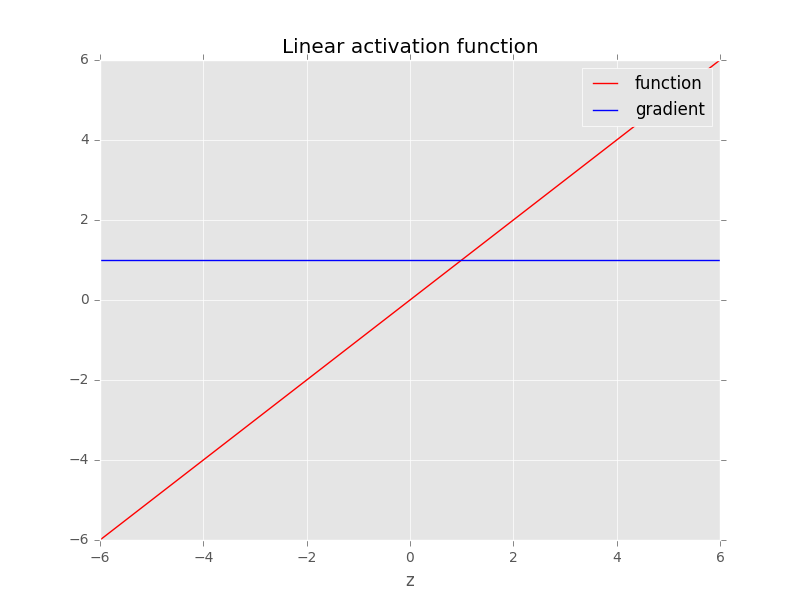
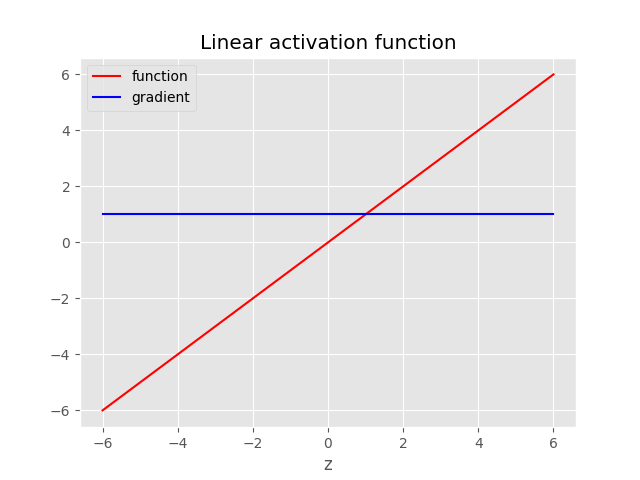
modular structure

diff --git a/nn_new.py b/nn_new.py
@@ -1,0 +1,136 @@
+#!/usr/bin/env python
+
+import numpy as np
+from activation import *
+from forward import *
+
+np.random.seed(42)
+
+hidden_layer_size = 50
+num_labels = 10
+
+X_train = np.load('input/X_train.npy')
+X_test = np.load('input/X_test.npy')
+y_train = np.load('input/y_train.npy')
+y_test = np.load('input/y_test.npy')
+
+input_layer_size = X_train.shape[1]
+
+X_train /= 255.
+X_test /= 255.
+
+
+def init_weights(L_in, L_out):
+    epsilon = 0.12
+
+    return 2*np.random.rand(L_out, L_in+1)*epsilon - epsilon
+
+
+def one_hot(K, pos):
+    y0 = np.zeros(K)
+    y0[pos] = 1
+
+    return y0
+
+
+def backprop(model, X, y):
+    M = X.shape[0]
+
+    Thetas = model[0::2]
+    activations = model[1::2]
+
+    layers = len(Thetas)
+
+    K = Thetas[-1].shape[0]
+    J = 0
+
+    Deltas = []
+
+    for i in range(layers):
+        Deltas.append(np.zeros(Thetas[i].shape))
+
+    deltas = [0, 0, 0, 0]
+
+    for i in range(M):
+        As = []
+        Zs = [0]
+        Hs = [X[i]]
+
+        # Forward propagation, saving intermediate results
+        As.append(np.concatenate(([1], Hs[0])))  # Input layer
+
+        for l in range(1, layers+1):
+            Zs.append(np.dot(Thetas[l-1], As[l-1]))
+            Hs.append(activations[l-1].f(Zs[l]))
+            As.append(np.concatenate(([1], Hs[l])))
+
+        y0 = one_hot(K, y[i])
+
+        # Cross entropy
+        J -= np.dot(y0.T, np.log(Hs[2]))+np.dot((1-y0).T, np.log(1-Hs[2]))
+
+        # Calculate the weight deltas
+        deltas[3] = Hs[layers]-y0
+        deltas[2] = np.dot(Thetas[1].T, deltas[3])[1:]*activations[1].df(Zs[1])
+
+        Deltas[1] += np.outer(deltas[3], As[1])
+        Deltas[0] += np.outer(deltas[2], As[0])
+
+    J /= M
+
+    Thetas[0][:, 0] = np.zeros(Thetas[0].shape[0])
+    Thetas[1][:, 0] = np.zeros(Thetas[1].shape[0])
+
+    grads = []
+
+    grads.append(Deltas[0]/M)
+    grads.append(Deltas[1]/M)
+
+    return [J, grads]
+
+
+if __name__ == "__main__":
+    step = 0
+    tol = 1e-3
+    J_old = 1/tol
+    diff = 1
+
+    Thetas = []
+    Thetas.append(init_weights(input_layer_size, hidden_layer_size))
+    Thetas.append(init_weights(hidden_layer_size, num_labels))
+
+    model = []
+
+    model.append(Thetas[0])
+    model.append(Sigmoid)
+    model.append(Thetas[1])
+    model.append(Sigmoid)
+
+    while diff > tol:
+        J_train, Theta1_grad, Theta2_grad = backprop(model, X_train, y_train)
+
+        diff = abs(J_old-J_train)
+        J_old = J_train
+
+        step += 1
+
+        if step % 10 == 0:
+            pred_train = predict(model, X_train)
+            pred_test = predict(model, X_test)
+
+            J_test, grads = backprop(model, X_test, y_test)
+
+            print(step, J_train, J_test, accuracy(pred_train, y_train), accuracy(pred_test, y_test))
+
+        Thetas[0] -= .5*grads[0]
+        Thetas[1] -= .5*grads[1]
+
+        if step == 30:
+            break
+
+    pred = predict(model, X_test)
+
+    #np.save('Theta1.npy', Theta1)
+    #np.save('Theta2.npy', Theta2)
+
+    print(accuracy(pred, y_test))

diff --git a/activation.py b/activation.py
@@ -4,69 +4,72 @@ import matplotlib.pyplot as plt
 import numpy as np
 
 
-def linear(z):
-    return z
+class Activation(object):
+    def f(z):
+        pass
 
+    def df(z):
+        pass
 
-def linearGradient(z):
-    return np.ones(z.shape)
+class Linear(Activation):
+    def f(z):
+        return z
 
+    def df(z):
+        return np.ones(z.shape)
 
-def relu(z):
-    return np.where(z > 0, z, 0)
+class ReLu(Activation):
+    def f(z):
+        return np.where(z > 0, z, 0)
 
+    def df(z):
+        return np.where(z > 0, 1, 0)
 
-def reluGradient(z):
-    return np.where(z > 0, 1, 0)
+class Sigmoid(Activation):
+    def f(z):
+        return 1./(1+np.exp(-z))
+    
+    def df(z):
+        h = Sigmoid.f(z)
+        return h*(1-h)
 
+class TanH(Activation):
+    def f(z):
+        return np.tanh(z)
 
-def sigmoid(z):
-    return 1./(1+np.exp(-z))
-
-
-def sigmoidGradient(z):
-    h = sigmoid(z)
-    return h*(1-h)
-
-
-def tanh(z):
-    return np.tanh(z)
-
-
-def tanhGradient(z):
-    return 1-np.power(tanh(z), 2.0)
-
+    def df(z):
+        return 1-np.power(np.tanh(z), 2.0)
 
 z = np.linspace(-6, 6, 100)
 
 plt.style.use('ggplot')
 
-plt.plot(z, linear(z), 'r-')
-plt.plot(z, linearGradient(z), 'b-')
+plt.plot(z, Linear.f(z), 'r-')
+plt.plot(z, Linear.df(z), 'b-')
 plt.xlabel('z')
 plt.title('Linear activation function')
 plt.legend(['function', 'gradient'])
 plt.savefig('figs/linear.png')
 plt.close()
 
-plt.plot(z, relu(z), 'r-')
-plt.plot(z, reluGradient(z), 'b-')
+plt.plot(z, ReLu.f(z), 'r-')
+plt.plot(z, ReLu.df(z), 'b-')
 plt.legend(['function', 'gradient'])
 plt.xlabel('z')
 plt.title('Rectified Linear activation function')
 plt.savefig('figs/relu.png')
 plt.close()
 
-plt.plot(z, sigmoid(z), 'r-')
-plt.plot(z, sigmoidGradient(z), 'b-')
+plt.plot(z, Sigmoid.f(z), 'r-')
+plt.plot(z, Sigmoid.df(z), 'b-')
 plt.legend(['function', 'gradient'])
 plt.xlabel('z')
 plt.title('Sigmoid activation function')
 plt.savefig('figs/sigmoid.png')
 plt.close()
 
-plt.plot(z, tanh(z), 'r-')
-plt.plot(z, tanhGradient(z), 'b-')
+plt.plot(z, TanH.f(z), 'r-')
+plt.plot(z, TanH.df(z), 'b-')
 plt.legend(['function', 'gradient'])
 plt.xlabel('z')
 plt.title('Hyperbolic Tangent activation function')

diff --git a/activation_simple.py b/activation_simple.py
@@ -1,0 +1,74 @@
+#!/usr/bin/env python
+
+import matplotlib.pyplot as plt
+import numpy as np
+
+
+def linear(z):
+    return z
+
+
+def linearGradient(z):
+    return np.ones(z.shape)
+
+
+def relu(z):
+    return np.where(z > 0, z, 0)
+
+
+def reluGradient(z):
+    return np.where(z > 0, 1, 0)
+
+
+def sigmoid(z):
+    return 1./(1+np.exp(-z))
+
+
+def sigmoidGradient(z):
+    h = sigmoid(z)
+    return h*(1-h)
+
+
+def tanh(z):
+    return np.tanh(z)
+
+
+def tanhGradient(z):
+    return 1-np.power(tanh(z), 2.0)
+
+
+z = np.linspace(-6, 6, 100)
+
+plt.style.use('ggplot')
+
+plt.plot(z, linear(z), 'r-')
+plt.plot(z, linearGradient(z), 'b-')
+plt.xlabel('z')
+plt.title('Linear activation function')
+plt.legend(['function', 'gradient'])
+plt.savefig('figs/linear.png')
+plt.close()
+
+plt.plot(z, relu(z), 'r-')
+plt.plot(z, reluGradient(z), 'b-')
+plt.legend(['function', 'gradient'])
+plt.xlabel('z')
+plt.title('Rectified Linear activation function')
+plt.savefig('figs/relu.png')
+plt.close()
+
+plt.plot(z, sigmoid(z), 'r-')
+plt.plot(z, sigmoidGradient(z), 'b-')
+plt.legend(['function', 'gradient'])
+plt.xlabel('z')
+plt.title('Sigmoid activation function')
+plt.savefig('figs/sigmoid.png')
+plt.close()
+
+plt.plot(z, tanh(z), 'r-')
+plt.plot(z, tanhGradient(z), 'b-')
+plt.legend(['function', 'gradient'])
+plt.xlabel('z')
+plt.title('Hyperbolic Tangent activation function')
+plt.savefig('figs/tanh.png')
+plt.close()

diff --git a/forward_simple.py b/forward_simple.py
@@ -1,7 +1,7 @@
 #!/usr/bin/env python
 
 import numpy as np
-from activation import *
+from activation_simple import sigmoid
 
 
 def forward(Theta, X, active):
@@ -14,21 +14,16 @@ def forward(Theta, X, active):
     z = np.dot(X_, Theta.T)
 
     # Apply the activation function
-    a = active.f(z)
+    a = active(z)
 
     return a
 
 
-def predict(model, X):
-    h = X.copy()
+def predict(Theta1, Theta2, X):
+    h1 = forward(Theta1, X, sigmoid)
+    h2 = forward(Theta2, h1, sigmoid)
 
-    for i in range(0, len(model), 2):
-        theta = model[i]
-        activation = model[i+1]
-
-        h = forward(theta, h, activation)
-
-    return np.argmax(h, 1)
+    return np.argmax(h2, 1)
 
 
 def accuracy(y_, y):
@@ -42,13 +37,6 @@ if __name__ == "__main__":
     X = np.load('input/X_train.npy')
     y = np.load('input/y_train.npy')
 
-    model = []
-
-    model.append(Theta1)
-    model.append(Sigmoid)
-    model.append(Theta2)
-    model.append(Sigmoid)
-
-    y_ = predict(model, X)
+    y_ = predict(Theta1, Theta2, X)
 
     print(accuracy(y_, y))

diff --git a/nn_simple.py b/nn_simple.py
@@ -1,8 +1,10 @@
 #!/usr/bin/env python
 
 import numpy as np
-from activation import sigmoid, sigmoidGradient
-from forward import *
+from activation_simple import sigmoid, sigmoidGradient
+from forward_simple import *
+
+np.random.seed(42)
 
 hidden_layer_size = 50
 num_labels = 10
